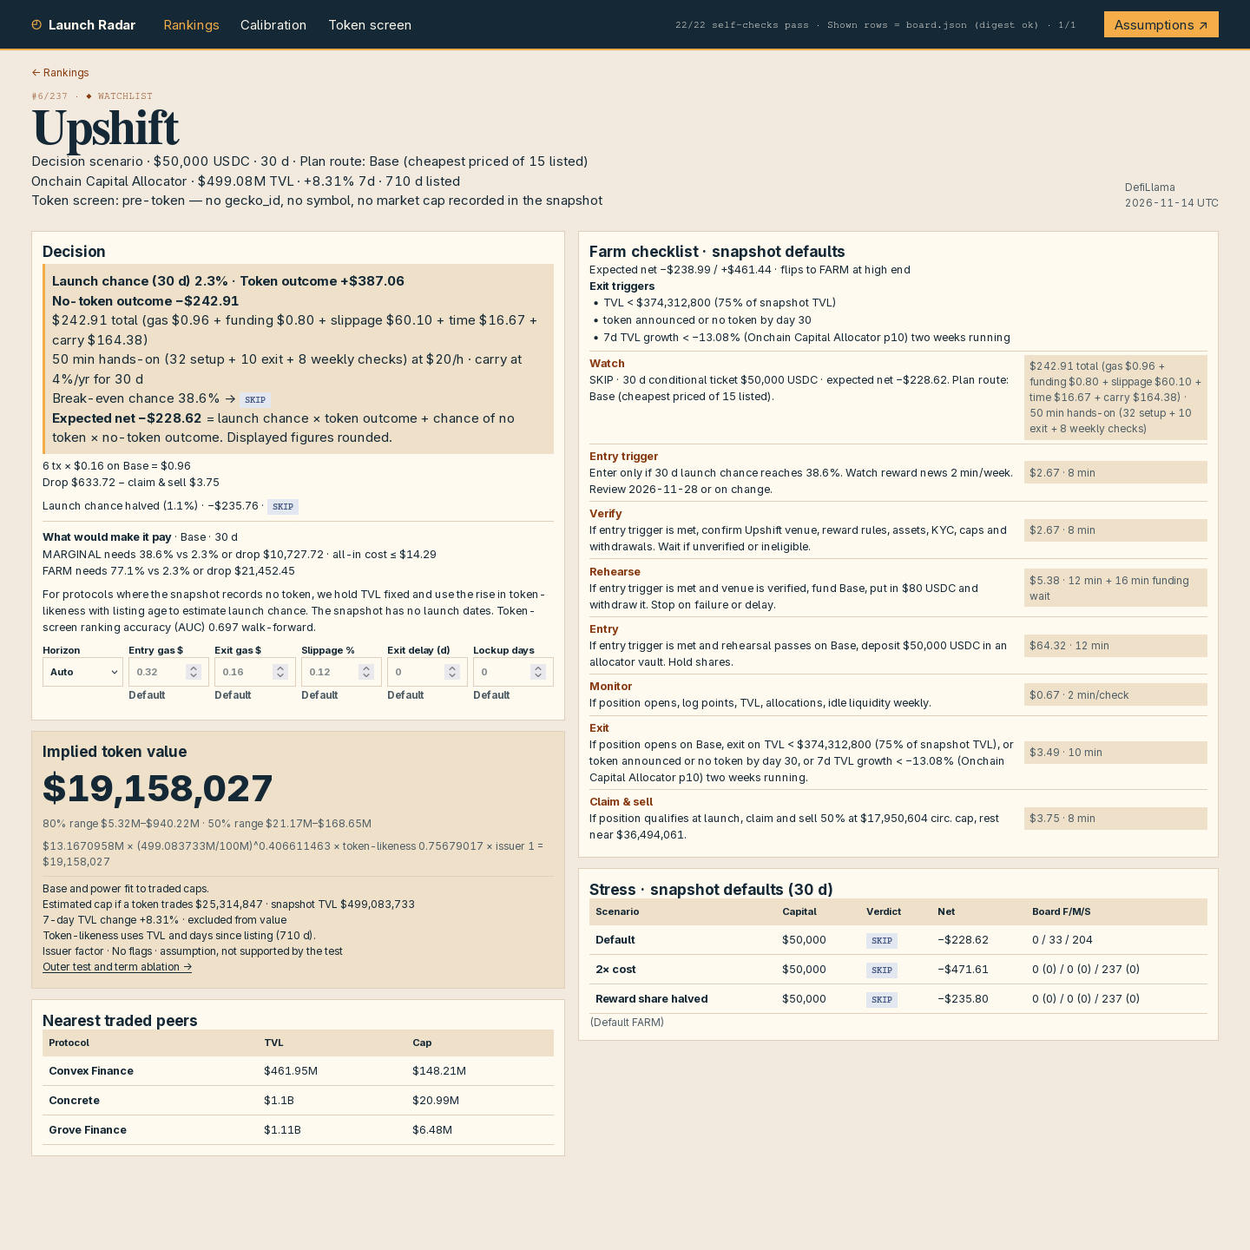
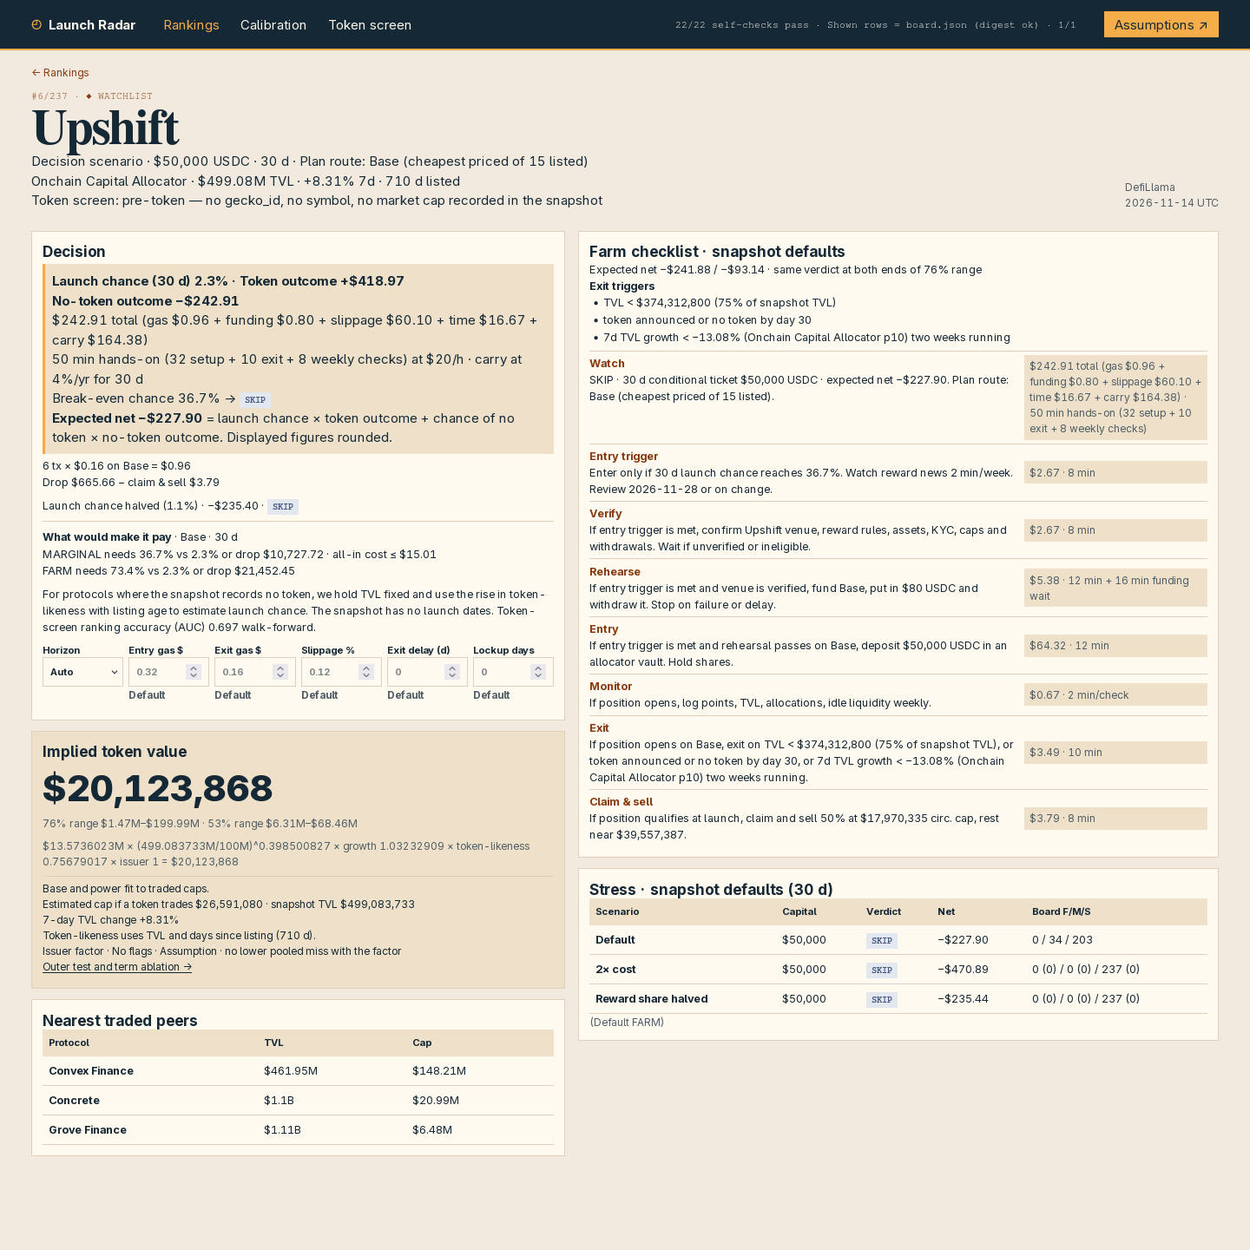
Keep growth in the deployed value; nested per-term evidence

diff --git a/dashboard/model.js b/dashboard/model.js
@@ -67,7 +67,7 @@ Mezo|.34|2.6|17`),
 	},
 	A={
 		growthClip:[-30,30],missingGrowth:0,haircut:.65,year:365,tvlReference:1e8,missingAgeFallback:365,
-		familyPenalty:2,oddsPenalty:1,valueWarmup:25,oddsWarmup:60,
+		oddsPenalty:1,valueWarmup:25,oddsWarmup:60,
 		bootstrapDraws:192,bootstrapSeed:918273,bandQuantiles:[.1,.9],
 		hourlyUsd:20,depositorShare:.05,competingTvlShare:.2,
 		capitalLadder:[1000,2500,5000,10000,25000,50000],farmMultiple:2,
@@ -123,7 +123,7 @@ const byText=(a,b)=>(a>b)-(a<b),bySlug=(a,b)=>byText(a.slug,b.slug),
 	tally=(rs,get)=>record(["FARM","MARGINAL","SKIP"],v=>count(rs,p=>get(p)===v)),
 	word1=name=>name.toLowerCase().match(/[\p{L}\p{N}]+/u)?.[0]
 const hasToken=p=>p.mcap_usd>0||!!(p.gecko_id||p.symbol),
-	rawScore=({launchValue,tokenOdds,scoreOdds=tokenOdds,haircut})=>launchValue*scoreOdds*haircut,
+	rawScore=({launchValue,tokenOdds,haircut})=>launchValue*tokenOdds*haircut,
 	scoreOf=p=>max(1,round(rawScore(p))),
 	costUsd=new Intl.NumberFormat("en-US",{style:"currency",currency:"USD"}).format,
 	integer=n=>round(n).toLocaleString("en-US"),whole=n=>"$"+integer(n)
@@ -200,20 +200,12 @@ function accum({matrix,target},x,residual,weight=1){
 	}
 }
 
-const valueTerms=[
-	["age","logAge",logAge],["growth","clippedGrowth",p=>p.growth/100],
-	...keys(families).concat("Other").map(f=>["family",f,p=>+(f===p.family)])
-]
-const capInputs=(p,{features,medianDays,omit})=>[
-	1,omit==="growth"?p.rawSize:p.size,...features.map(([,,read])=>read(p,medianDays))]
-function fitValue(pts,terms,omit,ridge){
-	const features=valueTerms.filter(([term])=>terms.includes(term)),
-		fit={terms,features,medianDays:terms.includes("age")?medianAge(pts):null,omit,ridge},eps=1e-8,
-		eq=normal([eps,eps+(ridge?sqrt(pts.length):0),...features.map(([t])=>t==="family"?A.familyPenalty:eps)])
-	for(const p of pts) accum(eq,capInputs(p,fit),p.response)
-	return{...fit,coefficients:solve(eq.matrix,eq.target)}
+function fitValue(pts,omitGrowth=false){
+	const eps=1e-8,eq=normal([eps,eps+sqrt(pts.length)])
+	for(const p of pts) accum(eq,[1,omitGrowth?p.rawSize:p.size],p.response)
+	return{omitGrowth,coefficients:solve(eq.matrix,eq.target)}
 }
-const capLog=(fit,p)=>dot(capInputs(p,fit),fit.coefficients)
+const capLog=(fit,p)=>dot([1,fit.omitGrowth?p.rawSize:p.size],fit.coefficients)
 const leaveOut=(pts,group)=>[...Map.groupBy(pts,group).values()]
 	.map(test=>[pts.filter(p=>!test.includes(p)),test]).filter(([train])=>train.length)
 function folds(pts,walk,warmup=A.valueWarmup){
@@ -228,64 +220,57 @@ function folds(pts,walk,warmup=A.valueWarmup){
 	return splits
 }
 
-const blindTests=["loo","walk"],
-	flagNote="assumption, not supported by the test"
+const blindTests=["loo","walk"]
 const medianMiss=es=>es.length?exp(quant(es.map(abs))):null
-function selectFit(pts){
-	const splits={loo:folds(pts),walk:folds(pts,true),family:leaveOut(pts,p=>p.family)},tests=keys(splits),
-		assess=(terms,ridge=false)=>({terms,ridge,...record(tests,k=>medianMiss(splits[k].flatMap(([train,test])=>{
-			const fit=fitValue(train,terms,null,ridge)
-			return test.map(p=>p.response-capLog(fit,p))
-		})))}),
-		terms=["age","family","growth"],
-		trials=Array.from({length:2**terms.length},(_,mask)=>assess(terms.filter((_,i)=>mask&(1<<i)))),
-		mass=trial=>tests.reduce((n,k)=>n*(trial[k]??1),1),
-		lower=(a,b,k)=>a[k]!==null&&a[k]<b[k],
-		better=(a,b)=>tests.every(k=>lower(a,b,k)),
-		deployed=trials.filter((trial,mask)=>terms.every((_,i)=>!(mask&(1<<i))||better(trial,trials[mask^(1<<i)])))
-			.sort((a,b)=>mass(a)-mass(b))[0],
-		ridge=assess(deployed.terms,true)
-	return blindTests.every(k=>lower(ridge,deployed,k))&&ridge.family!==null&&ridge.family<=deployed.family+.1?ridge:deployed
-}
 const levels={80:[.1,.9],50:[.25,.75]},coverage=keys(levels),
-	inside=(errors,[lo,hi])=>count(errors,e=>lo<=e&&e<=hi)
+	inside=(e,[lo,hi])=>lo<=e&&e<=hi
+function rangeFit(pts){
+	const errors=folds(pts).flatMap(([train,test])=>{
+		const fit=fitValue(train)
+		return test.map(p=>p.response-capLog(fit,p))
+	})
+	return errors.length?record(coverage,k=>levels[k].map(q=>quant(errors,q))):null
+}
 const outerTerms={growth:"7-day growth",age:"Age / token-likeness",issuer:"Issuer factor"},
 	variants=["full",...keys(outerTerms)],outerTests={walk:"Walk-forward",family:"Leave-one-family-out"}
-const variantFit=(train,{terms,ridge},omit)=>fitValue(train,terms.filter(t=>t!==omit),omit,ridge)
 function outerFolds(pts,recs){
 	const splits={walk:folds(pts,true),family:leaveOut(pts,p=>p.family)}
 	return record(keys(outerTests),k=>splits[k].map(([train,test])=>{
 		// Keep aliases of held-out tokens out of the status model and issuer lookup too.
 		const held=new Set(test.map(tokenId)),eligible=recs.filter(p=>!held.has(tokenId(p))&&
 			(k==="walk"?p.date!==null&&p.date<test[0].date:p.family!==test[0].family)),
-			choice=selectFit(train),fits=record(["full","growth","age"],omit=>variantFit(train,choice,omit)),
+			fit=fitValue(train),noGrowth=fitValue(train,true),
 			odds=fitOdds(eligible.filter(p=>!p.product)),words=issuerWords(eligible),
-			ratio=quant(train.map(p=>p.mcap_usd/p.tvl_usd))
-		return test.map(p=>{
+			ratio=quant(train.map(p=>p.mcap_usd/p.tvl_usd)),
+			label=k==="walk"?new Date(test[0].date).toISOString().slice(0,10):test[0].family,
+			quantiles=rangeFit(train),rows=test.map(p=>{
 			const likeness=tokenOdds(odds,p),issuer=issuerFlags(p,words).length?A.haircut:1,
-				error=(fit,s,h)=>p.response-log(scoreOf({launchValue:exp(capLog(fit,p)),tokenOdds:s,haircut:h})),
-				full=error(fits.full,likeness,issuer)
-			return {full,growth:error(fits.growth,likeness,issuer),
-				age:error(fits.age,1,issuer),issuer:error(fits.full,likeness,1),
+				launchValue=exp(capLog(fit,p)),error=(cap,s,h)=>p.response-log(scoreOf({launchValue:cap,tokenOdds:s,haircut:h}))
+			return {slug:p.slug,full:error(launchValue,likeness,issuer),growth:error(exp(capLog(noGrowth,p)),likeness,issuer),
+				age:error(launchValue,1,issuer),issuer:error(launchValue,likeness,1),
 				flat:p.response-log(p.tvl_usd*ratio),flagged:issuer!==1}
 		})
+		return{label,quantiles,rows,training:train.map(p=>p.slug)}
 	}))
 }
-const outerMiss=(rows,kind)=>medianMiss(rows.map(row=>row[kind]))
+const outerMiss=(rows,kind)=>medianMiss(rows.map(row=>row[kind])),
+	outerSummary=rows=>({miss:outerMiss(rows,"full"),flat:outerMiss(rows,"flat"),n:rows.length}),
+	bandSource="family"
 function valueTest(pts,recs){
-	const tests=outerFolds(pts,recs),errors=record(keys(tests),k=>tests[k].flat()),pooled=values(errors).flat(),
+	const tests=outerFolds(pts,recs),errors=record(keys(tests),k=>tests[k].flatMap(f=>f.rows)),pooled=values(errors).flat(),
 		misses=record(variants,k=>({pooled:outerMiss(pooled,k),...record(keys(tests),s=>outerMiss(errors[s],k))})),
-		chosen=variants.reduce((a,b)=>misses[b].pooled<misses[a].pooled?b:a),
-		headline=record(keys(tests),k=>({miss:misses.full[k],flat:outerMiss(errors[k],"flat"),n:errors[k].length})),
-		issuerNote=misses.issuer.pooled>misses.full.pooled?"Lower pooled miss with the factor":flagNote,
+		headline=record(keys(tests),k=>outerSummary(errors[k])),
+		foldScores=record(keys(tests),k=>tests[k].map(f=>({label:f.label,...outerSummary(f.rows)}))),
+		issuerNote=misses.issuer.pooled>misses.full.pooled?"Lower pooled miss with the factor":"Assumption · no lower pooled miss with the factor",
+		reasons={growth:"Kept · required snapshot input, clipped to ±30%",
+			age:"Kept · days without a recorded token enter through token-likeness",issuer:`Kept · ${issuerNote}`},
 		ablation=entries(outerTerms).map(([k,term])=>({term,withTerm:misses.full,without:misses[k],
-			reason:k===chosen?"Dropped · lowest pooled miss":k==="issuer"?issuerNote:
-			misses[k].pooled<misses.full.pooled?"Kept · another single omission helped more":"Kept · removal did not lower pooled miss"})),
-		source=errors.walk.length?"walk":"family",bandErrors=errors[source].map(r=>r[chosen]),n=bandErrors.length,
-		quantiles=record(coverage,k=>levels[k].map(q=>quant(bandErrors,q)??0)),
-		hits=record(coverage,k=>inside(bandErrors,quantiles[k])),
+			reason:reasons[k]})),
+		bands=tests[bandSource].filter(f=>f.quantiles),n=bands.flatMap(f=>f.rows).length,
+		hits=record(coverage,k=>bands.reduce((sum,f)=>sum+count(f.rows,r=>inside(r.full,f.quantiles[k])),0)),
 		labels=record(coverage,k=>n?round(100*hits[k]/n):null)
-	return{tests,misses,chosen,headline,ablation,issuerNote,flagged:count(pooled,r=>r.flagged),ranges:{quantiles,hits,labels,n,source}}
+	return{tests,misses,headline,foldScores,ablation,issuerNote,flagged:count(pooled,r=>r.flagged),
+		ranges:{quantiles:rangeFit(pts),hits,labels,n,source:bandSource}}
 }
 const sigmoid=x=>1/(1+exp(-limit(x,-35,35))),
 	oddsFeatures=(p,age)=>[1,p.rawSize,logAge(p,age)]
@@ -316,10 +301,8 @@ const tvlMillions=A.tvlReference/1e6,
 	equationScore=([base,tvl,slope,...terms])=>max(1,round(terms.reduce((v,[,n])=>v*n,
 		base*1e6*(tvl/tvlMillions)**slope)))
 function valueEquation(fit,p){
-	const [intercept,slope,...weights]=fit.coefficients,[,size,...inputs]=capInputs(p,fit),
-		terms=[...(fit.omit==="growth"?[]:[["growth",exp((size-p.rawSize)*slope)]]),
-			...fit.features.flatMap(([label],i)=>inputs[i]&&weights[i]?[[label,exp(inputs[i]*weights[i])]]:[]),
-			...(p.scoreOdds===1?[]:[["token-likeness",p.tokenOdds]]),["issuer",p.haircut]]
+	const [intercept,slope]=fit.coefficients,terms=[
+		["growth",exp((p.size-p.rawSize)*slope)],["token-likeness",p.tokenOdds],["issuer",p.haircut]]
 	let shown
 	for(let digits=4;digits<=17;digits++){
 		const print=n=>+n.toPrecision(digits)
@@ -339,14 +322,14 @@ function oddsTest(splits){
 	const pairs=positive.length*negative.length
 	return{auc:pairs?wins/pairs:null,n:scored.length}
 }
-function bootstrap(pts,{terms,ridge,omit}){
+function bootstrap(pts){
 	let seed=A.bootstrapSeed
 	return Array.from({length:A.bootstrapDraws},()=>{
 		const sample=pts.map(()=>{
 			seed=(Math.imul(seed,1664525)+1013904223)>>>0
 			return pts[floor(seed*pts.length/2**32)]
 		})
-		return fitValue(sample,terms,omit,ridge)
+		return fitValue(sample)
 	})
 }
 function peersFor({rawSize,category,family},pts){
@@ -497,8 +480,9 @@ const orderedRows=rs=>count(rs,(p,i)=>p?.rank===i+1&&(!i||p.implied_value_usd<=r
 	validSteps=steps=>Array.isArray(steps)&&steps.length>=3&&steps.length<=12
 		&&steps.every(s=>typeof s==="string"&&/^.{20,600}$/s.test(s.trim())&&/\$\d.*\d+ min/u.test(s))
 function selfChecks({rows:rs,board,counts,recs,stress,calibration,value},snap,expectedDigest){
-	const {headline,tests,chosen,ranges:{quantiles,hits,labels,n,source}}=value,
-		bandErrors=tests[source].flat().map(r=>r[chosen]),
+	const {headline,foldScores,tests,fit,ranges:{hits,labels,n,source}}=value,
+		[intercept,slope]=fit.coefficients,calibrationBySlug=new Map(calibration.map(p=>[p.slug,p])),
+		bands=tests[source].filter(f=>f.quantiles),bandRows=bands.flatMap(f=>f.rows),
 		plans=rs.map(p=>p.plan),samples=plans.filter(p=>p.pStar!==null&&p.q>0&&p.drop>0),close=(a,b)=>abs(a-b)<1e-8
 	return[...boardChecks(board,snap),...checks({
 		"calibration caps":calibration.every(p=>p.mcap_usd>0&&!p.productPeer),
@@ -506,17 +490,28 @@ function selfChecks({rows:rs,board,counts,recs,stress,calibration,value},snap,ex
 			&&recs.length===counts.total&&new Set(recs.map(p=>p.slug)).size===recs.length
 			&&recs.every((p,i)=>p.slug===snap.protocols[i].slug&&reasons[p.reason]?.[0]===p.status)
 			&&statuses.every(k=>count(recs,p=>reasons[p.reason]?.[0]===k)===counts[k]),
-		"value factors":rs.every(p=>scoreOf(p)===p.score),
+		"deployed value factors":rs.length===board.rows.length&&rs.every((p,i)=>{
+			const growth=limit(p.change_7d??A.missingGrowth,...A.growthClip),
+				cap=exp(intercept+slope*log(p.tvl_usd*(1+growth/100)/A.tvlReference)),row=board.rows[i]
+			return row.slug===p.slug&&row.rank===i+1&&row.launch_value_usd===cap
+				&&row.implied_value_usd===max(1,round(cap*row.token_odds*row.issuer_factor))
+		}),
 		"displayed value equation":rs.every(p=>equationScore(p.equation)===p.score),
 		"bootstrap bands":rs.every(p=>p.band.low>0&&p.band.low<=p.band.high&&p.tokenOdds>0&&p.tokenOdds<1),
-		"outer headline replay":entries(headline).every(([k,{miss,flat,n}])=>{
-			const heldOut=tests[k].flat()
-			return n===heldOut.length&&miss===outerMiss(heldOut,"full")&&flat===outerMiss(heldOut,"flat")
-				&&value.misses[chosen][k]===outerMiss(heldOut,chosen)
+		"outer headline replay":entries(tests).every(([k,folds])=>{
+			const same=({miss,flat,n},rows)=>n===rows.length&&miss===outerMiss(rows,"full")&&flat===outerMiss(rows,"flat")
+			return same(headline[k],folds.flatMap(f=>f.rows))&&foldScores[k].length===folds.length
+				&&folds.every((f,i)=>foldScores[k][i].label===f.label&&same(foldScores[k][i],f.rows))
 		}),
-		"outer band coverage label":n===bandErrors.length&&coverage.every(k=>hits[k]===inside(bandErrors,quantiles[k])
-			&&(n?abs(labels[k]-100*hits[k]/n)<=5:labels[k]===null)),
-		"flagged plans":rs.every(p=>p.haircut===(p.flags.length&&chosen!=="issuer"?A.haircut:1)
+		"outer band coverage label":source===bandSource&&n===bandRows.length&&bands.every(f=>{
+			const train=f.training.map(slug=>calibrationBySlug.get(slug))
+			return train.every(p=>p.family!==f.label)&&f.rows.every(r=>calibrationBySlug.get(r.slug).family===f.label)
+				&&JSON.stringify(f.quantiles)===JSON.stringify(rangeFit(train))
+		})&&coverage.every(k=>{
+			const covered=bands.flatMap(f=>f.rows.filter(r=>inside(r.full,f.quantiles[k]))).length
+			return hits[k]===covered&&labels[k]===(n?round(100*covered/n):null)
+		}),
+		"flagged plans":rs.every(p=>p.haircut===(p.flags.length?A.haircut:1)
 			&&(!p.flags.length||p.plan.verdict!=="FARM")),
 		"launch chance":plans.every(p=>values(p.launchOdds).every((q,i,curve)=>q>=(curve[i-1]??0)&&q<=1)),
 		"farm outcomes":plans.every(fp=>{
@@ -546,8 +541,11 @@ function selfChecks({rows:rs,board,counts,recs,stress,calibration,value},snap,ex
 			const matches=rs.filter(p=>p.plan.stress[k].verdict===v)
 			return all[v]===matches.length&&farm[v]===count(matches,isFarm)
 		})),
-		"value term choice":variants.every(k=>value.misses[k].pooled===outerMiss(values(tests).flat(2),k)
-			&&value.misses[chosen].pooled<=value.misses[k].pooled),
+		"value term replay":entries(outerTerms).every(([term,label],i)=>{
+			const a=value.ablation[i],matches=(rows,k)=>a.withTerm[k]===outerMiss(rows,"full")&&a.without[k]===outerMiss(rows,term)
+			return a.term===label&&matches(values(tests).flat().flatMap(f=>f.rows),"pooled")
+				&&entries(tests).every(([k,folds])=>matches(folds.flatMap(f=>f.rows),k))
+		}),
 		"board digest":digest(boardRows(rs))===expectedDigest
 	})]
 }
@@ -556,18 +554,17 @@ function buildModel(snap){
 		categories=Map.groupBy(recs,p=>p.category),
 		review=new Date(Date.parse(snap.as_of)+A.reviewDays*DAY).toISOString().slice(0,10)
 	if(pts.length<3) throw new Error("Need 3 screened caps.")
-	const tested=valueTest(pts,recs),{chosen,ranges:{quantiles}}=tested,
-		fit=variantFit(pts,selectFit(pts),chosen),value={...tested,fit},
-		resamples=bootstrap(pts,fit),
+	const fit=fitValue(pts),value={...valueTest(pts,recs),fit},
+		{ranges:{quantiles}}=value,resamples=bootstrap(pts),
 		oddsPts=recs.filter(p=>!p.product),
 		oddsFit=fitOdds(oddsPts),oddsFolds=record(blindTests,k=>folds(oddsPts,k==="walk",A.oddsWarmup)),
 		odds={validation:record(blindTests,k=>oddsTest(oddsFolds[k]))}
 	const rs=(groups.ranked??[]).map(p=>{
 		const launchValue=exp(capLog(fit,p)),
 			s=tokenOdds(oddsFit,p),
-			haircut=p.flags.length&&chosen!=="issuer"?A.haircut:1,
+			haircut=p.flags.length?A.haircut:1,
 			[low,high]=band(resamples.map(fit=>exp(capLog(fit,p)))),
-			row={...p,launchValue,tokenOdds:s,scoreOdds:chosen==="age"?1:s,haircut,band:{low,high},
+			row={...p,launchValue,tokenOdds:s,haircut,band:{low,high},
 			peers:peersFor(p,pts)}
 		row.score=scoreOf(row)
 		row.equation=valueEquation(fit,row)

diff --git a/dashboard/app.js b/dashboard/app.js
@@ -22,9 +22,8 @@ const {rows:rs,recs,counts:ns,verdicts,stress,value,odds,assumptions:setup,board
 	showAuc=fold=>fold.auc?.toFixed(3)??dash
 const aucLabel="Token-screen ranking accuracy (AUC)",
 	likenessTest=`${aucLabel} ${showAuc(auc.walk)} walk-forward`,
-	{headline,chosen,misses,ablation,issuerNote,ranges:{labels,hits,n:rangeN,source}}=value,
+	{headline,foldScores,ablation,issuerNote,ranges:{labels,hits,n:rangeN}}=value,
 	levelsShown=[80,50],rangeLabel=k=>labels[k]==null?"Uncalibrated range":`${labels[k]}% range`,
-	chosenNote=chosen==="full"?"All value terms retained":`${outerTerms[chosen]} dropped from value`,
 	groups=[["traded","traded"],["setAside","set aside"],["recorded","token, no cap"],["ranked","ranked"]],
 	choices=items=>["",...unique(items).sort()]
 const grades=keys(verdicts),
@@ -69,17 +68,16 @@ const badge=v=>`<span class="badge ${v.toLowerCase()}">${v}</span>`,
 	days=r=>r.ageDays==null?dash:integer(r.ageDays),
 	rowName=r=>esc(r.category||r.family)
 const intro=(title,copy="",lead="",lbl="")=>`<header class=intro><div>${lbl}<h1>${title}</h1>${lead}<p>${copy}</div><small>DefiLlama<br>${esc(snap.as_of)} UTC</small></header>`,
-	missTitle="Full model median miss vs flat ratio",
+	missTitle="Deployed value median miss vs flat ratio",
 	panel=(kind,title,body)=>`<section class="panel ${kind}">${title?`<h2>${title}</h2>`:""}${body}</section>`,
 	card=(title,body)=>panel("kpi",title,body),inset=(title,body,kind="")=>panel("inset"+kind,title,body)
 
-const valueStats=`<p class=nested>Outer test, selection inside training only</p>
+const valueStats=`<p class=nested>Outer test · refit on training only</p>
 <div class="readings misses">${html(entries(outerTests),([k,lbl])=>{
 		const {miss,flat,n}=headline[k]
 		return`<div><span>${lbl} · n=${n}</span><strong>${mult(miss)}</strong> / ${mult(flat)}</div>`
 	})}</div>
-${chosen==="full"?"":`<p class=deployed>With ${outerTerms[chosen].toLowerCase()} removed · ${mult(misses[chosen].walk)} walk-forward · ${mult(misses[chosen].family)} family</p>`}
-<p class=coverage>${rangeN?`${outerTests[source]} coverage · ${levelsShown.map(k=>`${rangeLabel(k)} (${hits[k]}/${rangeN})`).join(" · ")}`:"No outer residuals for range coverage"}</p>`
+<p class=coverage>${rangeN?`Family holdout coverage · ${levelsShown.map(k=>`${rangeLabel(k)} (${hits[k]}/${rangeN})`).join(" · ")}`:"Range coverage unavailable"}</p>`
 const tokenLinks=(st,separator="")=>groups.map(([k,lbl])=>
 	`<a href="${href("tokens",st,k)}"${st.route==="tokens"&&st.slug===k?' aria-current="page"':""}><b>${ns[k]}</b> ${lbl}</a>`).join(separator),
 	searchBox=st=>`<label>Search<input id=search type=search value="${esc(st.q)}" autocomplete=off></label>`,
@@ -87,7 +85,7 @@ const tokenLinks=(st,separator="")=>groups.map(([k,lbl])=>
 const kpis=st=>`<section class=kpis>
 ${card("Snapshot",`<strong>${ns.total}</strong>
 <div class=groups id=token-groups>${tokenLinks(st)}</div>`)}
-${card(missTitle,valueStats+`<a class=evidence href="${href("calibration",st)}">${chosenNote} · term tests →</a>`)}
+${card(missTitle,valueStats+`<a class=evidence href="${href("calibration",st)}">Fold results and term tests →</a>`)}
 ${card(aucLabel,`<div class=readings>${html([["loo","Leave-one-out"],["walk","Walk-forward"]],([k,lbl])=>
 	`<div><strong>${showAuc(auc[k])}</strong><span>${lbl}</span></div>`)}</div><p>Snapshot score from TVL and listing age compared with traded-token peers`)}
 ${card("Watchlist",`<strong>${ns.watchlistCovered}<small> / ${ns.watchlistTotal}</small></strong>
@@ -209,7 +207,7 @@ const table=(kind,heads,body,attrs="")=>`<div class=scroll tabindex=0${attrs}><t
 function valueSources(r,st){
 	return`<div class=sources><p>Base and power fit to traded caps.
 <p>Estimated cap if a token trades ${usd(r.launchValue)} · snapshot TVL ${usd(r.tvl_usd)}
-<p>7-day TVL change ${chg(r.change_7d)}${chosen==="growth"?" · excluded from value":r.growth!==r.change_7d?` (uses ${chg(r.growth)})`:""}
+<p>7-day TVL change ${chg(r.change_7d)}${r.growth!==r.change_7d?` (uses ${chg(r.growth)})`:""}
 <p>Token-likeness uses TVL and days since listing (${r.ageDays==null?"median used":days(r)+" d"}).
 <p>Issuer factor · ${r.flags.length?r.flags.map(esc).join(" · "):"No flags"} · ${issuerNote}
 <p><a class=evidence href="${href("calibration",st)}">Outer test and term ablation →</a></div>`
@@ -283,13 +281,18 @@ ${inset(`Stress · snapshot defaults (${fp.horizon} d)`,facts("Scenario|Capital|
 </div></div>`
 }
 function calibration(){
-	const table=facts(["Term","Pooled",...values(outerTests),"Kept because / decision"],
-		ablation.map(({term,withTerm,without,reason})=>[term,...["pooled",...keys(outerTests)]
-			.map(k=>`${mult(withTerm[k])} / ${mult(without[k])}`),reason]))
+	const table=facts(["Term","Pooled outer effect",...values(outerTests),"Reason"],
+		ablation.map(({term,withTerm,without,reason})=>[term,
+			`Miss ${mult(withTerm.pooled)} with / ${mult(without.pooled)} without`,...keys(outerTests)
+			.map(k=>`${mult(withTerm[k])} / ${mult(without[k])}`),reason])),
+		folds=html(entries(outerTests),([k,label])=>`<h3>${label}</h3>${facts("Held out|Deployed|Flat ratio|n",
+			foldScores[k].map(f=>[f.label,mult(f.miss),mult(f.flat),f.n]))}`)
 	return`${intro("Trading-token calibration")}
 ${inset(missTitle,valueStats+`<p>Flat ratio multiplies held-out TVL by the median cap-to-TVL ratio in training.
-<p>We score the rank value against known traded caps from one snapshot, pooled across dated and family holdouts. Walk-forward orders listings by date and uses snapshot TVL, growth and caps.</p>`)}
-${inset("Value terms · median miss with / without",`<p>We refit with one term removed at a time and use the lowest pooled outer miss across ${headline.walk.n+headline.family.n} predictions to set the ranking. Range coverage is measured on the residuals used to set the bounds.</p>${table}
+<p>Walk-forward orders listings by date. Both tests use TVL, growth and caps from the snapshot.
+<p>For each family holdout, we set range bounds using leave-one-out cap residuals from training peers. Coverage counts held-out caps inside those bounds applied to the implied value. The published ranges use all traded peers for calibration.</p>
+<details class=folds><summary>Individual outer folds</summary>${folds}</details>`)}
+${inset("Value terms · median miss with / without",`<p>Each test removes one term. The age test removes the whole token-likeness factor. The pooled result combines ${headline.walk.n+headline.family.n} outer predictions.</p>${table}
 <p>The issuer rule fired on ${value.flagged} held-out predictions using only training issuer names.</p>`," ablation")}
 ${inset(oddsLabel,`<p class=likeness>${likenessTest}. ${setup.timing}`)}`
 }

diff --git a/README.md b/README.md
@@ -4,7 +4,7 @@
 [![rank](https://make.fun/badge/token-radar-01/mochiko28/token-launch-radar-2/rank.svg)](https://make.fun/bounty/token-radar-01/leaderboard?utm_source=github&utm_medium=readme&utm_campaign=token-radar-01)
 [![reward](https://make.fun/badge/token-radar-01/mochiko28/token-launch-radar-2/reward.svg)](https://make.fun/bounty/token-radar-01?utm_source=github&utm_medium=readme&utm_campaign=token-radar-01)
 
-Launch Radar ranks DeFi protocols for which the snapshot records no token by the value a launch could carry. It fits market cap to TVL on the snapshot's traded peers and uses listing age in the token-likeness factor. The value test holds out later listings and whole protocol families. Removing seven-day growth lowered the pooled median miss for this snapshot. Each ranked protocol gets a costed farm plan with token and no-token outcomes, break-even token odds, a verify / wait / stop decision tree, a small withdrawal rehearsal before the deposit, and an editable quote panel.
+Launch Radar ranks DeFi protocols for which the snapshot records no token by the value a launch could carry. It fits market cap to TVL adjusted for seven-day growth on the snapshot's traded peers and uses listing age in the token-likeness factor. The outer value test holds out later listings and whole protocol families and reports the effect of removing each term. Range labels report observed coverage on held-out families, with bounds calibrated inside each training fold. Each ranked protocol gets a costed farm plan with token and no-token outcomes, break-even token odds, a verify / wait / stop decision tree, a small withdrawal rehearsal before the deposit, and an editable quote panel.
 
 ## Run it
 
